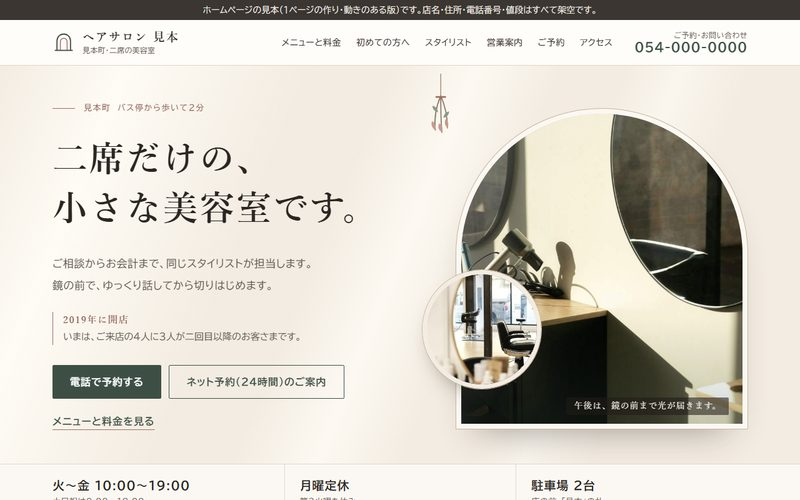
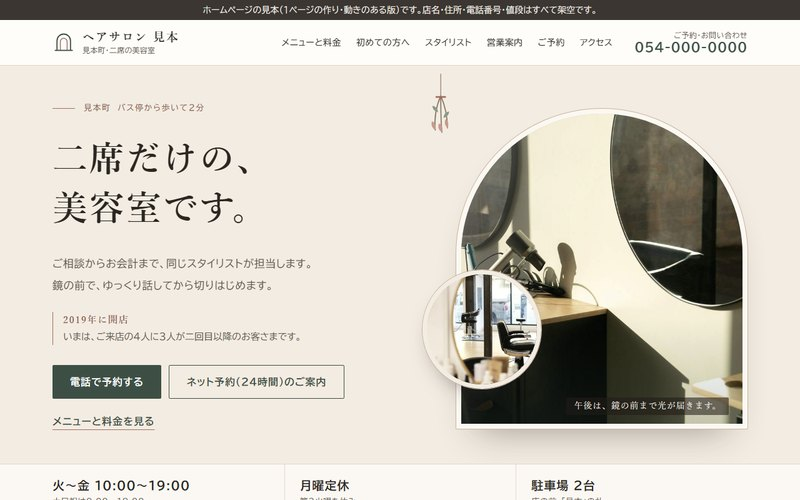
見本と一覧の文から、お店の規模を言う「小さな」を外す
一覧・美容室（動き・静か）・喫茶店・服・宿・茶園・セキュリティの説明とトップの説明。美容室の一覧の画像も見出しに合わせて撮り直した。

diff --git a/samples/index.html b/samples/index.html
@@ -6,7 +6,7 @@
 <meta http-equiv="Content-Security-Policy" content="default-src 'none'; style-src 'self'; img-src 'self'; font-src 'self'; base-uri 'none'; form-action 'none'; upgrade-insecure-requests">
 <meta name="referrer" content="strict-origin-when-cross-origin">
 <title>ホームページの見本｜ラクワーク工房</title>
-<meta name="description" content="小さなお店・医院・工場向けに、ラクワーク工房が作ったホームページの見本です。">
+<meta name="description" content="お店・医院・工場向けに、ラクワーク工房が作ったホームページの見本です。">
 <link rel="stylesheet" href="style.css?v=20261025c">
 </head>
 <body>
@@ -14,7 +14,7 @@
   <div class="wrap">
     <p class="brand">ラクワーク工房</p>
     <h1>ホームページの見本</h1>
-    <p class="lead">小さなお店・喫茶店・医院・工場・服のブランド・宿を思い浮かべて作った、7つの見本です。<br>どれも架空のお店ですが、本物のお店のつもりで作り込んであります。スマホでも開いてみてください。</p>
+    <p class="lead">お店・喫茶店・医院・工場・服のブランド・宿を思い浮かべて作った、7つの見本です。<br>どれも架空のお店ですが、本物のお店のつもりで作り込んであります。スマホでも開いてみてください。</p>
     <p class="lead-sub">動きを付けない版もあります：<a href="static/izakaya/">居酒屋</a>・<a href="static/salon/">美容室</a>・<a href="static/clinic/">医院</a>・<a href="static/factory/">町工場</a></p>
   </div>
 </header>
@@ -29,7 +29,7 @@
       <div class="sample-body">
         <p class="kind">服のブランド（新作の紹介）</p>
         <h2>shirotae 白妙</h2>
-        <p>白と生成りと紺を軸にした小さな服のブランドの、秋冬の新作を見せる1ページです。三つの着こなしごとに値段・素材・寸法をまとめ、ネットのお店（BASE など）と試着の予約へつなぎます。着こなしの写真は、生成AIで作ったイメージです。</p>
+        <p>白と生成りと紺を軸にした服のブランドの、秋冬の新作を見せる1ページです。三つの着こなしごとに値段・素材・寸法をまとめ、ネットのお店（BASE など）と試着の予約へつなぎます。着こなしの写真は、生成AIで作ったイメージです。</p>
         <a class="open" href="fashion/">1ページの作りを開く</a>
       </div>
     </article>
@@ -49,13 +49,13 @@
     </article>
     <article class="sample">
       <a class="shots" href="salon/">
-        <img class="pc" src="thumbs/salon.jpg?v=20261029t" width="800" height="500" alt="美容室の見本の画面。丸い鏡のアーチの写真と「二席だけの、小さな美容室です。」の見出し" loading="lazy">
-        <img class="sp" src="thumbs/salon_m.jpg?v=20261029t" width="240" height="448" alt="" loading="lazy">
+        <img class="pc" src="thumbs/salon.jpg?v=20261104s" width="800" height="500" alt="美容室の見本の画面。丸い鏡のアーチの写真と「二席だけの、美容室です。」の見出し" loading="lazy">
+        <img class="sp" src="thumbs/salon_m.jpg?v=20261104s" width="240" height="448" alt="" loading="lazy">
       </a>
       <div class="sample-body">
         <p class="kind">美容室（動きのある版）</p>
         <h2>ヘアサロン 見本</h2>
-        <p>二席だけの小さな美容室の見本です。開くと、鏡のアーチの覆いが上がり、見出しが一行ずつ出ます。スタイル写真は指で横に送れて、予約までの流れは1から4へ順に灯ります。お休みのカレンダーは月を切り替えられて、今日の日付に丸が付きます。動きは2秒ほどで止まります。「動きを減らす」設定のスマホでは、動かさずに表示します。</p>
+        <p>二席だけの美容室の見本です。開くと、鏡のアーチの覆いが上がり、見出しが一行ずつ出ます。スタイル写真は指で横に送れて、予約までの流れは1から4へ順に灯ります。お休みのカレンダーは月を切り替えられて、今日の日付に丸が付きます。動きは2秒ほどで止まります。「動きを減らす」設定のスマホでは、動かさずに表示します。</p>
         <a class="open" href="salon/">見本を開く</a>
       </div>
     </article>
@@ -79,7 +79,7 @@
       <div class="sample-body">
         <p class="kind">喫茶店（自家焙煎の1ページ）</p>
         <h2>あさまど珈琲</h2>
-        <p>朝の光の入る窓ぎわで、自家焙煎の豆を出す小さな喫茶店の見本です。開くと最初に、今日開いているかと何時までかが出ます。その下に、席・電源・駐車場・子連れ・予約などを来る前に知りたい順で並べました。今週の豆は焼きの色の帯に置き、臨時のお休みは一覧に1行足すと、その日の表示まで変わります。写真は無料素材の実写です。</p>
+        <p>朝の光の入る窓ぎわで、自家焙煎の豆を出す喫茶店の見本です。開くと最初に、今日開いているかと何時までかが出ます。その下に、席・電源・駐車場・子連れ・予約などを来る前に知りたい順で並べました。今週の豆は焼きの色の帯に置き、臨時のお休みは一覧に1行足すと、その日の表示まで変わります。写真は無料素材の実写です。</p>
         <a class="open" href="cafe/">見本を開く</a>
       </div>
     </article>

diff --git a/samples/salon/index.html b/samples/salon/index.html
@@ -8,12 +8,12 @@
 <meta name="referrer" content="strict-origin-when-cross-origin">
 <meta name="robots" content="noindex,nofollow">
 <title>ヘアサロン 見本（架空）｜見本町の二席だけの美容室</title>
-<meta name="description" content="小さな美容室（架空）のホームページ見本です。実在の店ではありません。">
+<meta name="description" content="二席だけの美容室（架空）のホームページ見本です。実在の店ではありません。">
 <meta property="og:type" content="website">
 <meta property="og:locale" content="ja_JP">
 <meta property="og:site_name" content="ラクワーク工房 ホームページの見本">
 <meta property="og:title" content="ヘアサロン 見本（架空）｜見本町の二席だけの美容室">
-<meta property="og:description" content="小さな美容室（架空）のホームページ見本です。実在の店ではありません。">
+<meta property="og:description" content="二席だけの美容室（架空）のホームページ見本です。実在の店ではありません。">
 <meta property="og:url" content="https://rakuwork-kobo.github.io/samples/salon/">
 <meta property="og:image" content="https://rakuwork-kobo.github.io/samples/salon/img/og.jpg">
 <meta property="og:image:width" content="1200">
@@ -47,7 +47,7 @@
     <div class="wrap hero-in">
       <div class="hero-text">
         <p class="eyebrow">見本町　バス停から歩いて2分</p>
-        <h1><span class="visually-hidden">二席だけの、小さな美容室です。</span><span class="h1-anim" aria-hidden="true"><span class="l1"><span class="c">二</span><span class="c">席</span><span class="c">だ</span><span class="c">け</span><span class="c">の</span><span class="c">、</span></span><br><span class="l2"><span class="c">小</span><span class="c">さ</span><span class="c">な</span><span class="c">美</span><span class="c">容</span><span class="c">室</span><span class="c">で</span><span class="c">す</span><span class="c">。</span></span></span></h1>
+        <h1><span class="visually-hidden">二席だけの、美容室です。</span><span class="h1-anim" aria-hidden="true"><span class="l1"><span class="c">二</span><span class="c">席</span><span class="c">だ</span><span class="c">け</span><span class="c">の</span><span class="c">、</span></span><br><span class="l2"><span class="c">美</span><span class="c">容</span><span class="c">室</span><span class="c">で</span><span class="c">す</span><span class="c">。</span></span></span></h1>
         <p class="lead">ご相談からお会計まで、同じスタイリストが担当します。<br>鏡の前で、ゆっくり話してから切りはじめます。</p>
         <p class="hero-proof"><b>2019年に開店</b>いまは、ご来店の4人に3人が二回目以降のお客さまです。</p>
         <div class="hero-actions">

diff --git a/samples/fashion/index.html b/samples/fashion/index.html
@@ -7,12 +7,12 @@
 <meta name="referrer" content="strict-origin-when-cross-origin">
 <meta name="robots" content="noindex,nofollow">
 <title>shirotae（架空）｜2026 秋冬 コレクション「朝の白」</title>
-<meta name="description" content="白と生成りと紺を軸にした小さな服のブランド（架空）の、新作を紹介するページの見本です。実在のブランドではありません。">
+<meta name="description" content="白と生成りと紺を軸にした服のブランド（架空）の、新作を紹介するページの見本です。実在のブランドではありません。">
 <meta property="og:type" content="website">
 <meta property="og:locale" content="ja_JP">
 <meta property="og:site_name" content="ラクワーク工房 ホームページの見本">
 <meta property="og:title" content="shirotae（架空）｜2026 秋冬 コレクション「朝の白」">
-<meta property="og:description" content="白と生成りと紺を軸にした小さな服のブランド（架空）の、新作を紹介するページの見本です。">
+<meta property="og:description" content="白と生成りと紺を軸にした服のブランド（架空）の、新作を紹介するページの見本です。">
 <meta property="og:url" content="https://rakuwork-kobo.github.io/samples/fashion/">
 <meta property="og:image" content="https://rakuwork-kobo.github.io/samples/fashion/img/og.jpg">
 <meta property="og:image:width" content="1200">
@@ -174,7 +174,7 @@
         <div class="fabric-head">
           <p class="kicker">素材のこと</p>
           <h2 id="fabric-title">指でつまんで、<br>確かめた糸で。</h2>
-          <p>ワッフル編みのニットは、国内の小さな編み工場で一度に80枚ずつ編んでいます。毛玉になりにくい撚りの強いウールに、ナイロンを三割混ぜて、洗っても形が<span class="nw">崩れにくく</span>しました。ブラウスは糸の細い綿ブロードを目を詰めて織り、白でも透けにくく。プリーツとワンピースは、家で洗ってもひだと形が戻るポリエステルを選んでいます。</p>
+          <p>ワッフル編みのニットは、国内の編み工場で一度に80枚ずつ編んでいます。毛玉になりにくい撚りの強いウールに、ナイロンを三割混ぜて、洗っても形が<span class="nw">崩れにくく</span>しました。ブラウスは糸の細い綿ブロードを目を詰めて織り、白でも透けにくく。プリーツとワンピースは、家で洗ってもひだと形が戻るポリエステルを選んでいます。</p>
         </div>
       <div class="fabric-main">
         <figure class="fabric-big">

diff --git a/index.html b/index.html
@@ -4,7 +4,7 @@
 <meta charset="utf-8">
 <meta name="viewport" content="width=device-width, initial-scale=1">
 <title>事務のAIレシピ（無料のプロンプト8本）</title>
-<meta name="description" content="小さな会社の事務の担当者、自治会・PTAの役員のための、生成AIで使えるプロンプト8本。会社の仕事で使うときの注意、入れてはいけない情報、答えの確かめ方つき。">
+<meta name="description" content="会社の事務の担当者、自治会・PTAの役員のための、生成AIで使えるプロンプト8本。会社の仕事で使うときの注意、入れてはいけない情報、答えの確かめ方つき。">
 <style>
 :root {
   --bg: #fbfaf7;
@@ -159,7 +159,7 @@ footer.site {
   <p class="brand">ラクワーク工房</p>
   <h1>事務のAIレシピ</h1>
   <p class="brand">無料のプロンプト8本</p>
-  <p class="lead">小さな会社の事務の担当者、自治会・PTAの役員の方へ。ChatGPT・Claude・Gemini などの生成AIで使えるプロンプトを8本まとめました。無料版でも動く書き方にしていますが、会社の仕事で使うときは、会社が認めたサービスとアカウントで使ってください（下の「使う前に」の1）。どのレシピにも「入れてはいけない情報」と「出てきた答えの確かめ方」を付けています。このページを読むのに登録も料金もいりません。</p>
+  <p class="lead">会社の事務の担当者、自治会・PTAの役員の方へ。ChatGPT・Claude・Gemini などの生成AIで使えるプロンプトを8本まとめました。無料版でも動く書き方にしていますが、会社の仕事で使うときは、会社が認めたサービスとアカウントで使ってください（下の「使う前に」の1）。どのレシピにも「入れてはいけない情報」と「出てきた答えの確かめ方」を付けています。このページを読むのに登録も料金もいりません。</p>
 </header>
 <main>
 

diff --git a/samples/tea-v3/index.html b/samples/tea-v3/index.html
@@ -8,7 +8,7 @@
 <meta name="robots" content="noindex,nofollow">
 <meta name="theme-color" content="#dce3dc">
 <title>霧和茶園（架空）｜一番摘み「霞」 牧之原産、一番茶の深蒸し煎茶</title>
-<meta name="description" content="静岡・牧之原の台地にある小さな茶園（架空）の、一番茶の深蒸し煎茶「霞」を紹介するページの見本です。実在の茶園・商品ではありません。">
+<meta name="description" content="静岡・牧之原の台地にある茶園（架空）の、一番茶の深蒸し煎茶「霞」を紹介するページの見本です。実在の茶園・商品ではありません。">
 <link rel="icon" href="img/favicon.svg" type="image/svg+xml">
 <link rel="preload" as="image" href="img/fog0_p.webp" media="(max-aspect-ratio: 1/1)" fetchpriority="high">
 <link rel="preload" as="image" href="img/fog0_l.webp" media="(min-aspect-ratio: 1/1)" fetchpriority="high">
@@ -172,7 +172,7 @@
     <h2 id="h-farm">霧和茶園の<wbr>こと</h2>
     <div class="farm-cols">
       <p>牧之原の台地に、約4ヘクタールの畑があります。秋に周りの草地でススキなどを刈り、冬のうちに畝の間へ敷きます。土の乾きと雑草を抑える、静岡に伝わる茶草場（ちゃぐさば）農法です。</p>
-      <p>摘んだ芽は、茶園の小さな工場で、蒸しから仕上げの火入れまで行います。三代目の園主、霧和正之は、蒸す時間をその年の葉の厚みで少しずつ変えていて、「濃く出るお茶なので、湯は少しぬるめから試してみてください」と話します。</p>
+      <p>摘んだ芽は、茶園の工場で、蒸しから仕上げの火入れまで行います。三代目の園主、霧和正之は、蒸す時間をその年の葉の厚みで少しずつ変えていて、「濃く出るお茶なので、湯は少しぬるめから試してみてください」と話します。</p>
     </div>
   </div>
 </section>

diff --git a/samples/cafe/index.html b/samples/cafe/index.html
@@ -9,12 +9,12 @@
 <meta name="theme-color" content="#eef1ee">
 <meta name="color-scheme" content="light">
 <title>あさまど珈琲（架空）｜見本町の、窓ぎわ14席の自家焙煎の喫茶店</title>
-<meta name="description" content="小さな自家焙煎の喫茶店（架空）のホームページ見本です。実在の店ではありません。">
+<meta name="description" content="自家焙煎の喫茶店（架空）のホームページ見本です。実在の店ではありません。">
 <meta property="og:type" content="website">
 <meta property="og:locale" content="ja_JP">
 <meta property="og:site_name" content="ラクワーク工房 ホームページの見本">
 <meta property="og:title" content="あさまど珈琲（架空）｜見本町の、窓ぎわ14席の自家焙煎の喫茶店">
-<meta property="og:description" content="小さな自家焙煎の喫茶店（架空）のホームページ見本です。実在の店ではありません。">
+<meta property="og:description" content="自家焙煎の喫茶店（架空）のホームページ見本です。実在の店ではありません。">
 <meta property="og:url" content="https://rakuwork-kobo.github.io/samples/cafe/">
 <meta property="og:image" content="https://rakuwork-kobo.github.io/samples/cafe/img/og.jpg">
 <meta property="og:image:width" content="1200">
@@ -62,7 +62,7 @@
     </figure>
     <div class="hero-text">
       <h1 id="hero-title" class="hero-title">朝の光の入る窓ぎわで、<br>店で焼いた豆を一杯ずつ。</h1>
-      <p class="hero-lead">見本町の、14席の小さな喫茶店です。豆は、店の奥の小さな焙煎機で焼いています。</p>
+      <p class="hero-lead">見本町の、14席の喫茶店です。豆は、店の奥の小さな焙煎機で焼いています。</p>
 
       <div class="today" id="today" aria-live="polite">
         <p class="today-date" id="today-date">営業時間</p>

diff --git a/samples/security/index.html b/samples/security/index.html
@@ -24,7 +24,7 @@
     <h2 id="now-h">弱いサイトを探す手間が、<br class="br-pc">AIで減ってきています</h2>
     <p>穴のあるサイトを機械で自動的に探して回る攻撃は、ずっと前からあります。そこに生成AIが加わって、攻撃の準備にかかる手間が小さくなってきました。</p>
     <p>IPA（情報処理推進機構）が2026年1月に出した「情報セキュリティ10大脅威 2026」の組織向けの一覧では、「AIの利用をめぐるサイバーリスク」が初めて入り、3位でした。説明には、AIの悪用で攻撃がしやすくなり、手口も巧妙になることが挙げられています。同じ一覧の4位は「システムの脆弱性を悪用した攻撃」です。脆弱性は、ソフトの欠陥でできた穴のことです。</p>
-    <p>機械で探す側は、お店の大きさではなく、穴があるかどうかを見ています。小さなお店だから大丈夫、とは言いにくくなりました。</p>
+    <p>機械で探す側は、お店の大きさではなく、穴があるかどうかを見ています。「うちは狙われない」とは言いにくくなりました。</p>
   </section>
 
   <section class="pairs-sec" aria-labelledby="pairs-h">

diff --git a/samples/static/salon/index.html b/samples/static/salon/index.html
@@ -7,7 +7,7 @@
 <meta name="referrer" content="strict-origin-when-cross-origin">
 <meta name="robots" content="noindex,nofollow">
 <title>ヘアサロン 見本（架空）｜見本町の二席だけの美容室</title>
-<meta name="description" content="小さな美容室のホームページ見本です。実在の店ではありません。">
+<meta name="description" content="二席だけの美容室のホームページ見本です。実在の店ではありません。">
 <link rel="stylesheet" href="style.css">
 </head>
 <body>
@@ -31,7 +31,7 @@
     <div class="wrap hero-in">
       <div class="hero-text">
         <p class="eyebrow">バス停「見本町」から歩いて2分</p>
-        <h1>二席だけの<br>小さな美容室です。</h1>
+        <h1>二席だけの<br>美容室です。</h1>
         <p class="lead">ご相談からお会計まで、同じスタイリストが担当します。<br>鏡の前で、ゆっくり話してから切りはじめます。</p>
         <div class="hero-actions">
           <a class="btn btn-main" href="tel:0540000000">電話で予約する</a>

diff --git a/samples/tea/index.html b/samples/tea/index.html
@@ -8,7 +8,7 @@
 <meta name="robots" content="noindex,nofollow">
 <meta name="theme-color" content="#e9ece4">
 <title>霧和茶園（架空）｜一番摘み「霞」 一番茶の深蒸し煎茶</title>
-<meta name="description" content="静岡・牧之原の台地にある小さな茶園（架空）の、一番茶の深蒸し煎茶「霞」を紹介するページの見本です。実在の茶園・商品ではありません。">
+<meta name="description" content="静岡・牧之原の台地にある茶園（架空）の、一番茶の深蒸し煎茶「霞」を紹介するページの見本です。実在の茶園・商品ではありません。">
 <link rel="icon" href="img/favicon.svg" type="image/svg+xml">
 <link rel="preload" as="image" href="img/fuji_p.webp" media="(max-aspect-ratio: 1/1)" fetchpriority="high">
 <link rel="preload" as="image" href="img/fuji_l.webp" media="(min-aspect-ratio: 1/1)" fetchpriority="high">

diff --git a/samples/retreat/index.html b/samples/retreat/index.html
@@ -43,7 +43,7 @@
   <div class="stay-text">
     <h2 id="stay-title" class="h2">一棟まるごと、<br>ふたりの夜に</h2>
     <div class="stay-body">
-      <p>夜半は、一日にひと組だけを迎える小さな宿です。門を閉めたあとは、母屋も庭も、頭の上の空も、泊まる方だけのものになります。</p>
+      <p>夜半は、一日にひと組だけを迎える宿です。門を閉めたあとは、母屋も庭も、頭の上の空も、泊まる方だけのものになります。</p>
       <p>灯りは、足もとを照らすぶんだけにしてあります。聞こえるのは風の音と、ときどき遠くで鳴く鳥くらいです。</p>
       <p>くわしい場所は、ご予約のあとにお知らせしています。地図に印のない夜を、そのまま過ごしていただくためです。</p>
     </div>
